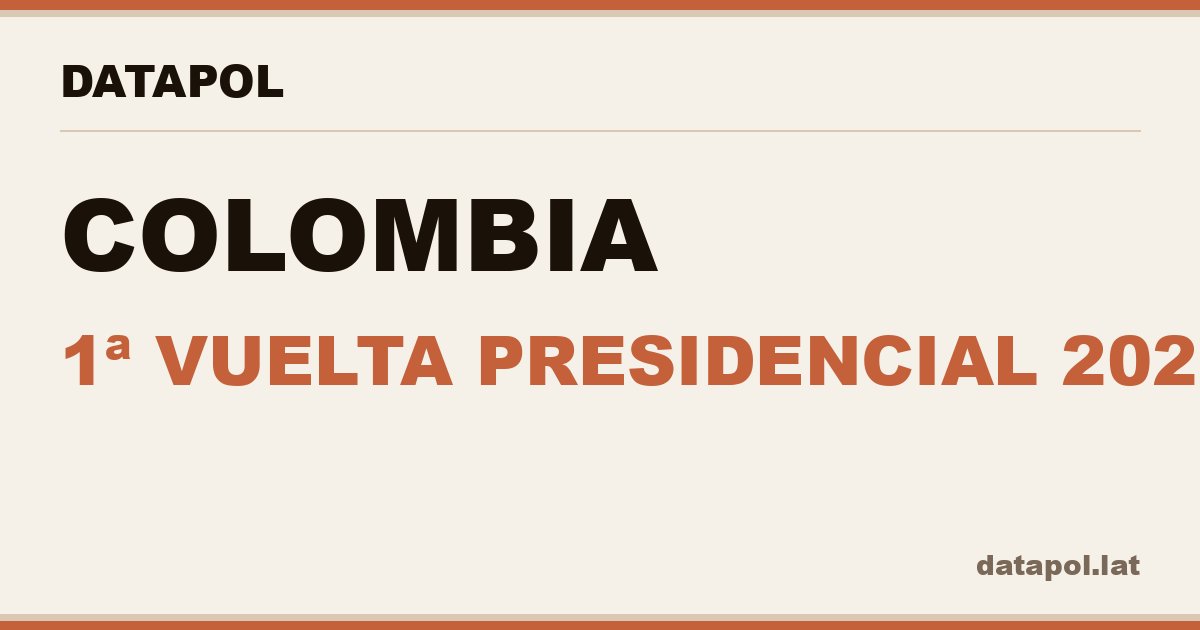
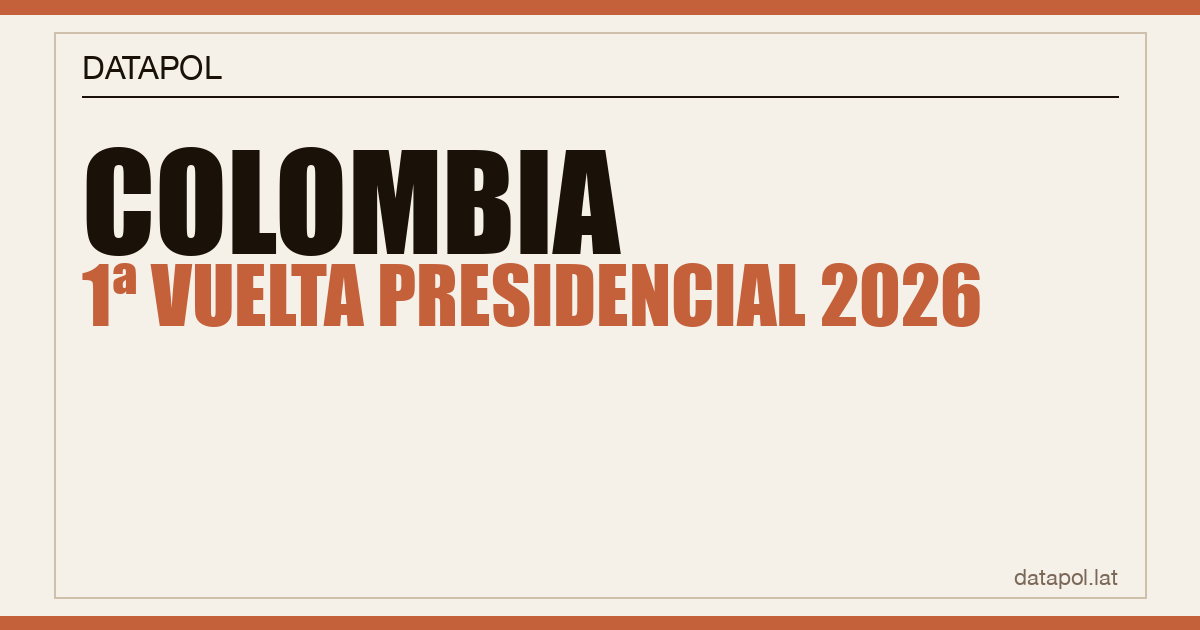
Fix OG images (2026 cutoff, Congreso→Senado) and landing iframe zoom
OG images:
- Regenerated all 5 with auto-sizing subtitle font (was overflowing right edge)
- New og_colombia_senado.png: 'SENADO 2026' (was 'CONGRESO 2026')
- Colombia Senado page now references og_colombia_senado.png
- og_colombia_congreso.png kept as-is for backward compat

Landing page iframes:
- Peru embed: scale(0.625) + top:-85px to crop page chrome and zoom in on map
- Mobile: both embeds use scale(0.4) / 250% to show more map context

Changed region(s): [[0.0308, 0.0905, 1.0, 0.6333], [0.0, 0.8746, 1.0, 0.9952], [0.0, 0.0, 1.0, 0.0603]]

diff --git a/index.html b/index.html
@@ -161,6 +161,14 @@
       transform-origin: top left;
       pointer-events: none;
     }
+    /* Peru embed: zoom in more so the map fills the frame; shift up to crop
+       the page's own nav/header chrome (~130px of underlying content) */
+    .peru-wrap iframe {
+      top: -85px;
+      width: 160%;
+      height: 220%;
+      transform: scale(0.625);
+    }
     .embed-link {
       position: absolute;
       inset: 0;
@@ -270,6 +278,14 @@
       .col-right { gap: 0.5rem; }
       .articles-block { flex: none; }
       .embed-block { min-height: 82vw; }
+      /* On mobile: zoom out to show more map context */
+      .embed-wrap iframe,
+      .peru-wrap iframe {
+        top: 0;
+        width: 250%;
+        height: 250%;
+        transform: scale(0.4);
+      }
       .embed-chip { opacity: 1; }
       .article-card { padding: 0.65rem 0.85rem; }
     }
@@ -324,7 +340,7 @@
           <div class="embed-block-label">RESULTADOS ELECTORALES</div>
           <div class="embed-block-title">🇵🇪 Perú · 2da Vuelta 2026</div>
         </div>
-        <div class="embed-wrap">
+        <div class="embed-wrap peru-wrap">
           <iframe src="/electoral/peru/2026eg/segunda-vuelta/"
                   title="Perú — 2da Vuelta 2026"
                   loading="eager"

diff --git a/electoral/colombia/2026/senado/index.html b/electoral/colombia/2026/senado/index.html
@@ -16,12 +16,12 @@
   <meta property="og:title"       content="Colombia — Senado 2026">
   <meta property="og:description" content="Resultados en tiempo real, mapas interactivos por circunscripción.">
   <meta property="og:url"         content="https://datapol.lat/electoral/colombia/2026/congreso/">
-  <meta property="og:image"       content="https://datapol.lat/shared/images/og_colombia_congreso.png">
+  <meta property="og:image"       content="https://datapol.lat/shared/images/og_colombia_senado.png">
   <meta name="twitter:card"        content="summary_large_image">
   <meta name="twitter:site"        content="@KhamaRamaq">
   <meta name="twitter:title"       content="Colombia — Senado 2026">
   <meta name="twitter:description" content="Resultados en tiempo real, mapas interactivos por circunscripción.">
-  <meta name="twitter:image"       content="https://datapol.lat/shared/images/og_colombia_congreso.png">
+  <meta name="twitter:image"       content="https://datapol.lat/shared/images/og_colombia_senado.png">
   <style>
     *, *::before, *::after { box-sizing: border-box; margin: 0; padding: 0; }
     :root {
